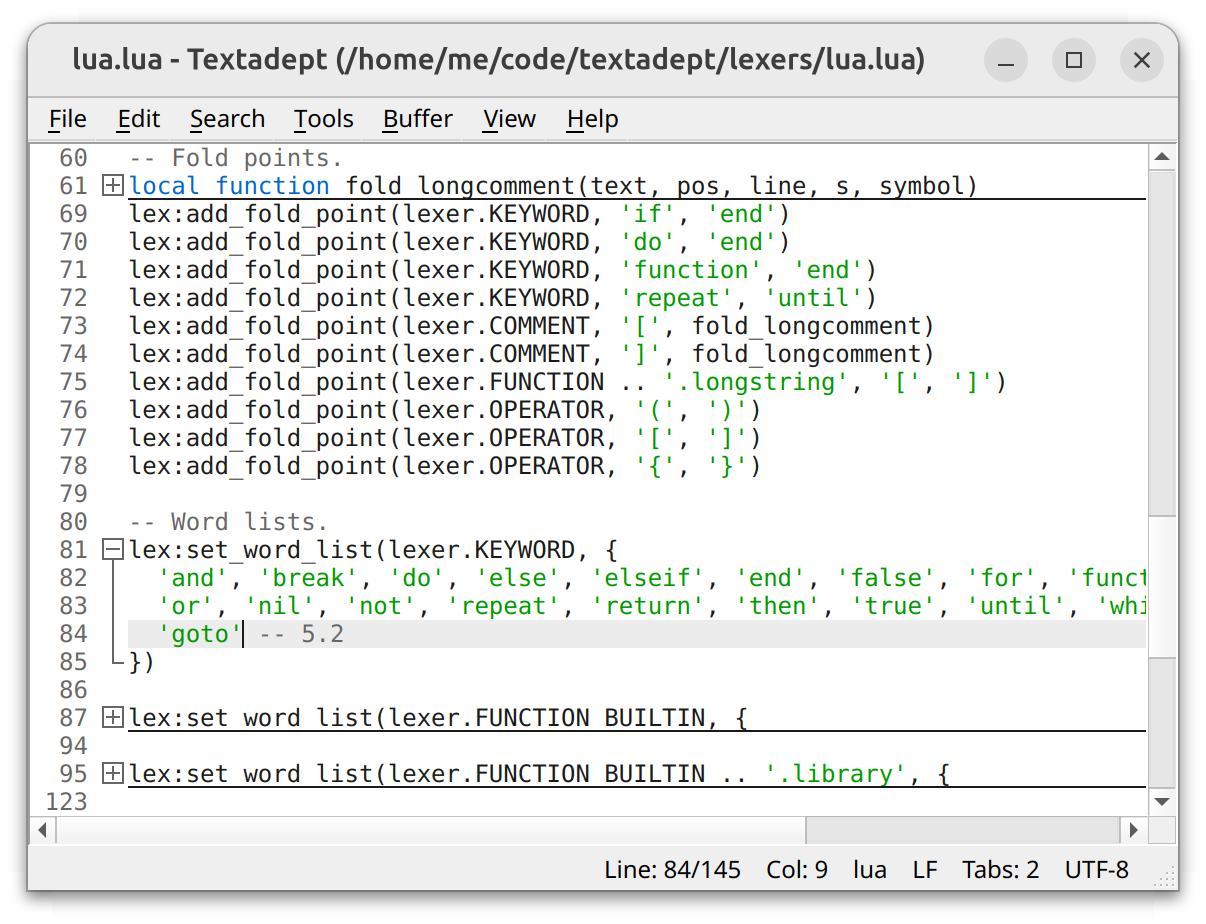
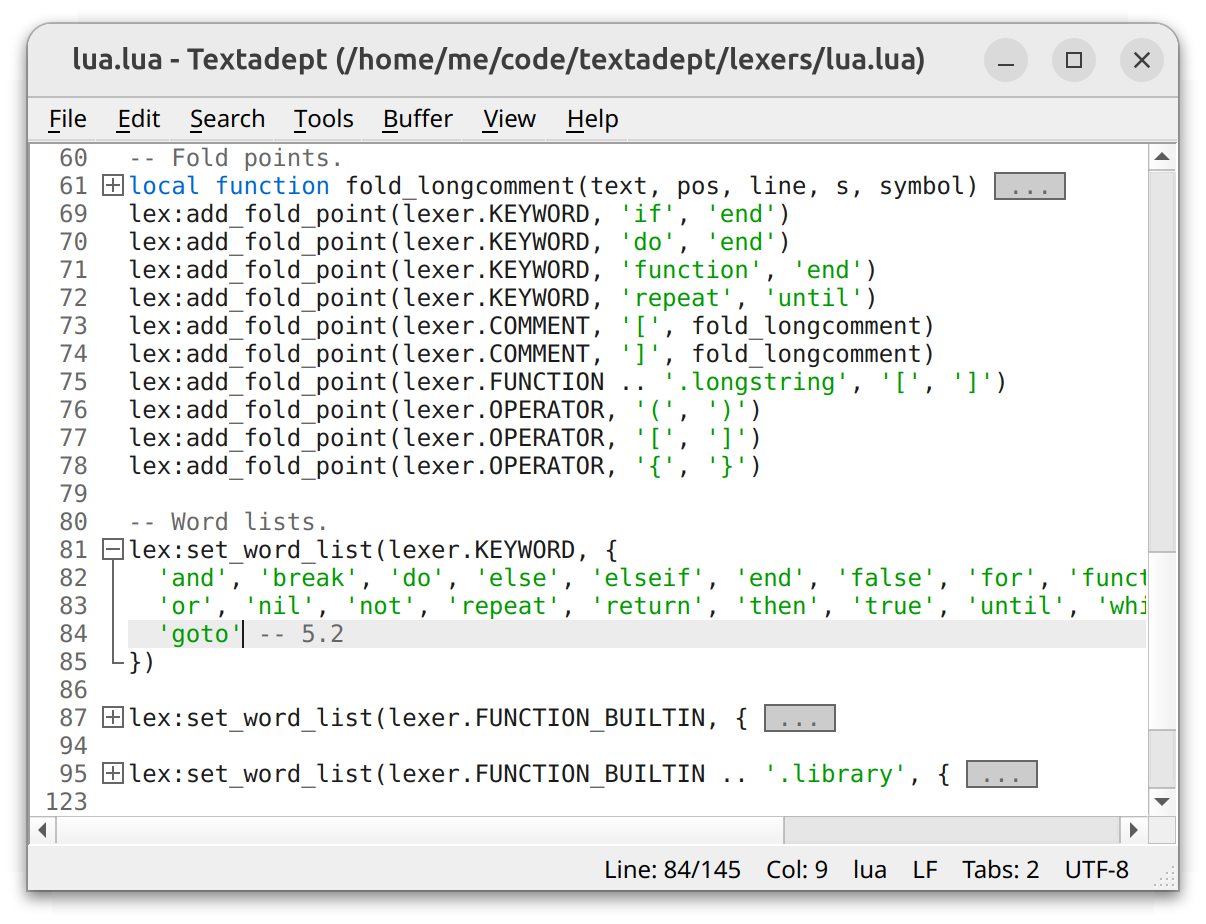
Added "Buffer > Toggle Code Folding" menu item.

diff --git a/docs/manual.md b/docs/manual.md
@@ -1110,10 +1110,21 @@ directory, with file names being trigger words.
 ### Code Folding
 
 Many of Textadept's lexers can identify blocks of code and mark their fold points in the editor's
-left-hand margin. Toggle the visibility of a code block by clicking on its marker, or toggle
-the visibility of the current block via `Ctrl+}` on Windows and Linux/BSD, `⌘}` on macOS,
-and `M-}` in the terminal version. You can also use the "View > Collapse Top-Level Folds",
-"View > Collapse All Folds", and "View > Expand All Folds" menu items to manipulate folds.
+left-hand margin.
+
+- Toggle the visibility of a code block by clicking on its marker, or toggle the visibility
+  of the current block via `Ctrl+}` on Windows and Linux/BSD, `⌘}` on macOS, and `M-}` in the
+  terminal version.
+- Use the "View > Collapse Top-Level Folds", "View > Collapse All Folds", and "View > Expand
+  All Folds" menu items to manipulate folds.
+- Turn off/on code folding for a buffer using the "Buffer > Toggle Code Folding" menu item.
+
+**Tip:** you can turn off code folding completely by changing `buffer.folding`. For example
+in your *~/.textadept/init.lua*:
+
+```lua
+buffer.folding = false
+```
 
 <a href="assets/images/folding.png"><img src="assets/images/folding.png" alt="folding" width="600"/></a>
 
